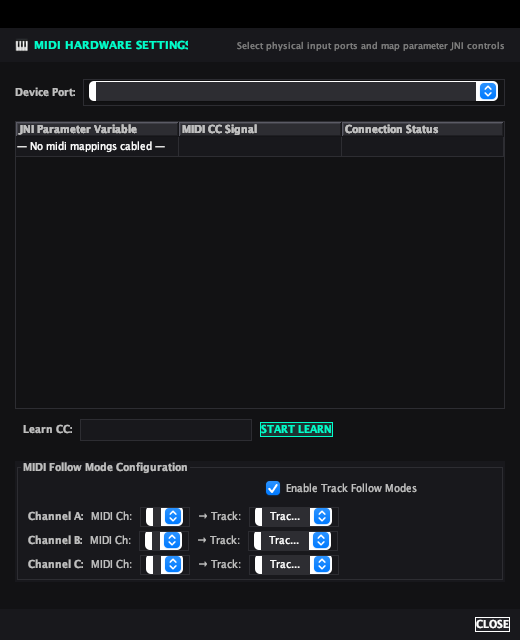
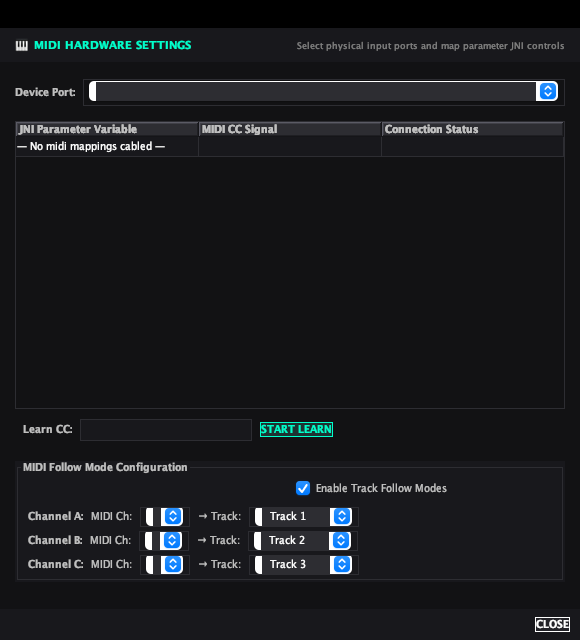
ui: adjust layout dimensions and fix button rendering on macOS to prevent text clipping

diff --git a/deluge/src/main/java/org/chuck/deluge/ui/SwingRandomizerDialog.java b/deluge/src/main/java/org/chuck/deluge/ui/SwingRandomizerDialog.java
@@ -225,23 +225,19 @@ public class SwingRandomizerDialog extends JDialog {
     cs.weightx = 0.5;
     cs.insets = new Insets(8, 0, 0, 8);
 
-    JButton randOptionsBtn = new JButton("🎲 Randomize Mappings");
+    JButton randOptionsBtn = new JButton("🎲 Randomize Mappings  ");
     randOptionsBtn.setFont(new Font("SansSerif", Font.BOLD, 13));
     randOptionsBtn.setPreferredSize(new Dimension(350, 42));
-    randOptionsBtn.setBackground(new Color(0x32, 0x2d, 0x4d));
-    randOptionsBtn.setForeground(Color.WHITE);
-    randOptionsBtn.setFocusable(false);
+    styleButton(randOptionsBtn, new Color(0x32, 0x2d, 0x4d), Color.WHITE);
     randOptionsBtn.addActionListener(e -> triggerRandomizeOptions());
     southPanel.add(randOptionsBtn, cs);
 
     cs.gridx = 1;
     cs.insets = new Insets(8, 8, 0, 0);
-    JButton createSynthBtn = new JButton("⚡ Create & Load Random Synth");
+    JButton createSynthBtn = new JButton("⚡ Create & Load Random Synth  ");
     createSynthBtn.setFont(new Font("SansSerif", Font.BOLD, 13));
     createSynthBtn.setPreferredSize(new Dimension(350, 42));
-    createSynthBtn.setBackground(new Color(0x0c, 0x38, 0x1f));
-    createSynthBtn.setForeground(Color.GREEN);
-    createSynthBtn.setFocusable(false);
+    styleButton(createSynthBtn, new Color(0x0c, 0x38, 0x1f), Color.GREEN);
     createSynthBtn.addActionListener(e -> generateAndLoadSynth());
     southPanel.add(createSynthBtn, cs);
 
@@ -283,11 +279,10 @@ public class SwingRandomizerDialog extends JDialog {
 
     cTop.gridx = 2;
     cTop.weightx = 0.0;
-    JButton browseFolderBtn = new JButton("📁 Select Folder");
+    JButton browseFolderBtn = new JButton("📁 Select Folder  ");
     browseFolderBtn.setFont(new Font("SansSerif", Font.BOLD, 11));
-    browseFolderBtn.setBackground(new Color(0x3a, 0x3a, 0x3e));
-    browseFolderBtn.setForeground(Color.WHITE);
-    browseFolderBtn.setFocusable(false);
+    styleButton(browseFolderBtn, new Color(0x3a, 0x3a, 0x3e), Color.WHITE);
+    browseFolderBtn.setPreferredSize(new Dimension(140, 26));
     browseFolderBtn.addActionListener(e -> selectSamplesDirectory());
     topPanel.add(browseFolderBtn, cTop);
 
@@ -407,12 +402,10 @@ public class SwingRandomizerDialog extends JDialog {
     csKit.weightx = 1.0;
     csKit.insets = new Insets(10, 0, 0, 0);
 
-    JButton generateKitBtn = new JButton("⚡ Generate & Load Drum Kit live");
+    JButton generateKitBtn = new JButton("⚡ Generate & Load Drum Kit live  ");
     generateKitBtn.setFont(new Font("SansSerif", Font.BOLD, 14));
     generateKitBtn.setPreferredSize(new Dimension(750, 45));
-    generateKitBtn.setBackground(new Color(0x0c, 0x38, 0x1f));
-    generateKitBtn.setForeground(Color.GREEN);
-    generateKitBtn.setFocusable(false);
+    styleButton(generateKitBtn, new Color(0x0c, 0x38, 0x1f), Color.GREEN);
     generateKitBtn.addActionListener(e -> generateAndLoadKitTrack());
     southPanel.add(generateKitBtn, csKit);
 
@@ -1140,11 +1133,10 @@ public class SwingRandomizerDialog extends JDialog {
     gbc.gridwidth = 2;
     gbc.fill = GridBagConstraints.NONE;
     gbc.anchor = GridBagConstraints.CENTER;
-    JButton generateBtn = new JButton("🎹 GENERATE DIATONIC PROGRESSION");
+    JButton generateBtn = new JButton("🎹 GENERATE DIATONIC PROGRESSION  ");
     generateBtn.setFont(new Font("SansSerif", Font.BOLD, 12));
-    generateBtn.setBackground(new Color(0x00, 0x4d, 0x3d));
-    generateBtn.setForeground(Color.WHITE);
-    generateBtn.setFocusable(false);
+    styleButton(generateBtn, new Color(0x00, 0x4d, 0x3d), Color.WHITE);
+    generateBtn.setPreferredSize(new Dimension(300, 30));
     generateBtn.addActionListener(
         e -> {
           if (synthTrackIndices.isEmpty()) {
@@ -1348,5 +1340,14 @@ public class SwingRandomizerDialog extends JDialog {
     panel.add(generateBtn, gbc);
 
     return panel;
+  }
+
+  private void styleButton(JButton btn, Color bg, Color fg) {
+    btn.setContentAreaFilled(false);
+    btn.setOpaque(true);
+    btn.setFocusPainted(false);
+    btn.setBackground(bg);
+    btn.setForeground(fg);
+    btn.setBorder(BorderFactory.createLineBorder(fg, 1));
   }
 }

diff --git a/deluge/src/main/java/org/chuck/deluge/ui/SwingAudioSlicerDialog.java b/deluge/src/main/java/org/chuck/deluge/ui/SwingAudioSlicerDialog.java
@@ -77,11 +77,10 @@ public class SwingAudioSlicerDialog extends JDialog {
 
     cTop.gridx = 2;
     cTop.weightx = 0.0;
-    JButton browseBtn = new JButton("📁 Select WAV");
+    JButton browseBtn = new JButton("📁 Select WAV  ");
     browseBtn.setFont(new Font("SansSerif", Font.BOLD, 11));
-    browseBtn.setBackground(new Color(0x3a, 0x3a, 0x3e));
-    browseBtn.setForeground(Color.WHITE);
-    browseBtn.setFocusable(false);
+    styleButton(browseBtn, new Color(0x3a, 0x3a, 0x3e), Color.WHITE);
+    browseBtn.setPreferredSize(new Dimension(140, 26));
     browseBtn.addActionListener(e -> selectWavLoopFile());
     topPanel.add(browseBtn, cTop);
 
@@ -167,12 +166,10 @@ public class SwingAudioSlicerDialog extends JDialog {
     // Row 2: Slice Action button
     cSouth.gridy = 2;
     cSouth.insets = new Insets(8, 0, 0, 0);
-    JButton sliceActionBtn = new JButton("✂ Slice & Load Across Kit Rows live");
+    JButton sliceActionBtn = new JButton("✂ Slice & Load Across Kit Rows live  ");
     sliceActionBtn.setFont(new Font("SansSerif", Font.BOLD, 14));
     sliceActionBtn.setPreferredSize(new Dimension(750, 44));
-    sliceActionBtn.setBackground(new Color(0x0c, 0x38, 0x1f));
-    sliceActionBtn.setForeground(Color.GREEN);
-    sliceActionBtn.setFocusable(false);
+    styleButton(sliceActionBtn, new Color(0x0c, 0x38, 0x1f), Color.GREEN);
     sliceActionBtn.addActionListener(e -> generateAndSplitKitTrack());
     southPanel.add(sliceActionBtn, cSouth);
 
@@ -338,15 +335,11 @@ public class SwingAudioSlicerDialog extends JDialog {
   }
 
   private void styleButton(AbstractButton btn, Color bg, Color fg) {
+    btn.setContentAreaFilled(false);
     btn.setOpaque(true);
-    btn.setBorderPainted(true);
-    btn.setContentAreaFilled(true);
+    btn.setFocusPainted(false);
     btn.setBackground(bg);
     btn.setForeground(fg);
-    btn.setFocusable(false);
-    btn.setBorder(
-        BorderFactory.createCompoundBorder(
-            BorderFactory.createLineBorder(bg.brighter(), 1),
-            BorderFactory.createEmptyBorder(4, 12, 4, 12)));
+    btn.setBorder(BorderFactory.createLineBorder(fg, 1));
   }
 }

diff --git a/deluge/src/main/java/org/chuck/deluge/ui/SwingMidiConfigDialog.java b/deluge/src/main/java/org/chuck/deluge/ui/SwingMidiConfigDialog.java
@@ -34,7 +34,7 @@ public class SwingMidiConfigDialog extends JDialog {
     this.bridge = bridge;
     this.midiService = midiService;
 
-    setSize(520, 640);
+    setSize(580, 640);
     setLocationRelativeTo(owner);
     setResizable(true);
     getContentPane().setBackground(new Color(0x12, 0x12, 0x14));
@@ -44,7 +44,7 @@ public class SwingMidiConfigDialog extends JDialog {
     JPanel headerPanel = new JPanel(new BorderLayout());
     headerPanel.setBackground(new Color(0x18, 0x18, 0x1c));
     headerPanel.setBorder(BorderFactory.createEmptyBorder(10, 15, 10, 15));
-    JLabel titleLabel = new JLabel("🎹 MIDI HARDWARE SETTINGS");
+    JLabel titleLabel = new JLabel("🎹 MIDI HARDWARE SETTINGS  ");
     titleLabel.setFont(new Font("SansSerif", Font.BOLD, 11));
     titleLabel.setForeground(new Color(0x00, 0xff, 0xcc));
     headerPanel.add(titleLabel, BorderLayout.WEST);
@@ -250,7 +250,7 @@ public class SwingMidiConfigDialog extends JDialog {
           Integer.parseInt(PreferencesManager.get("midi.follow.track" + fLabel, String.valueOf(i)));
       trCombo.setSelectedIndex(Math.min(savedTr, 15));
       styleCombo(trCombo);
-      trCombo.setPreferredSize(new Dimension(90, 20));
+      trCombo.setPreferredSize(new Dimension(110, 20));
       trCombo.addActionListener(
           e -> {
             PreferencesManager.set(

diff --git a/deluge/src/main/java/org/chuck/deluge/ui/SwingScreenshotGenerator.java b/deluge/src/main/java/org/chuck/deluge/ui/SwingScreenshotGenerator.java
@@ -292,7 +292,7 @@ public class SwingScreenshotGenerator {
                     () -> {
                       midiBox[0] = new SwingMidiConfigDialog(app, vm, bridge, app.getMidiService());
                       midiBox[0].setModal(false); // Modality off for screenshots!
-                      midiBox[0].setSize(520, 640);
+                      midiBox[0].setSize(580, 640);
                       midiBox[0].setVisible(true);
                     });
                 Thread.sleep(2000);
